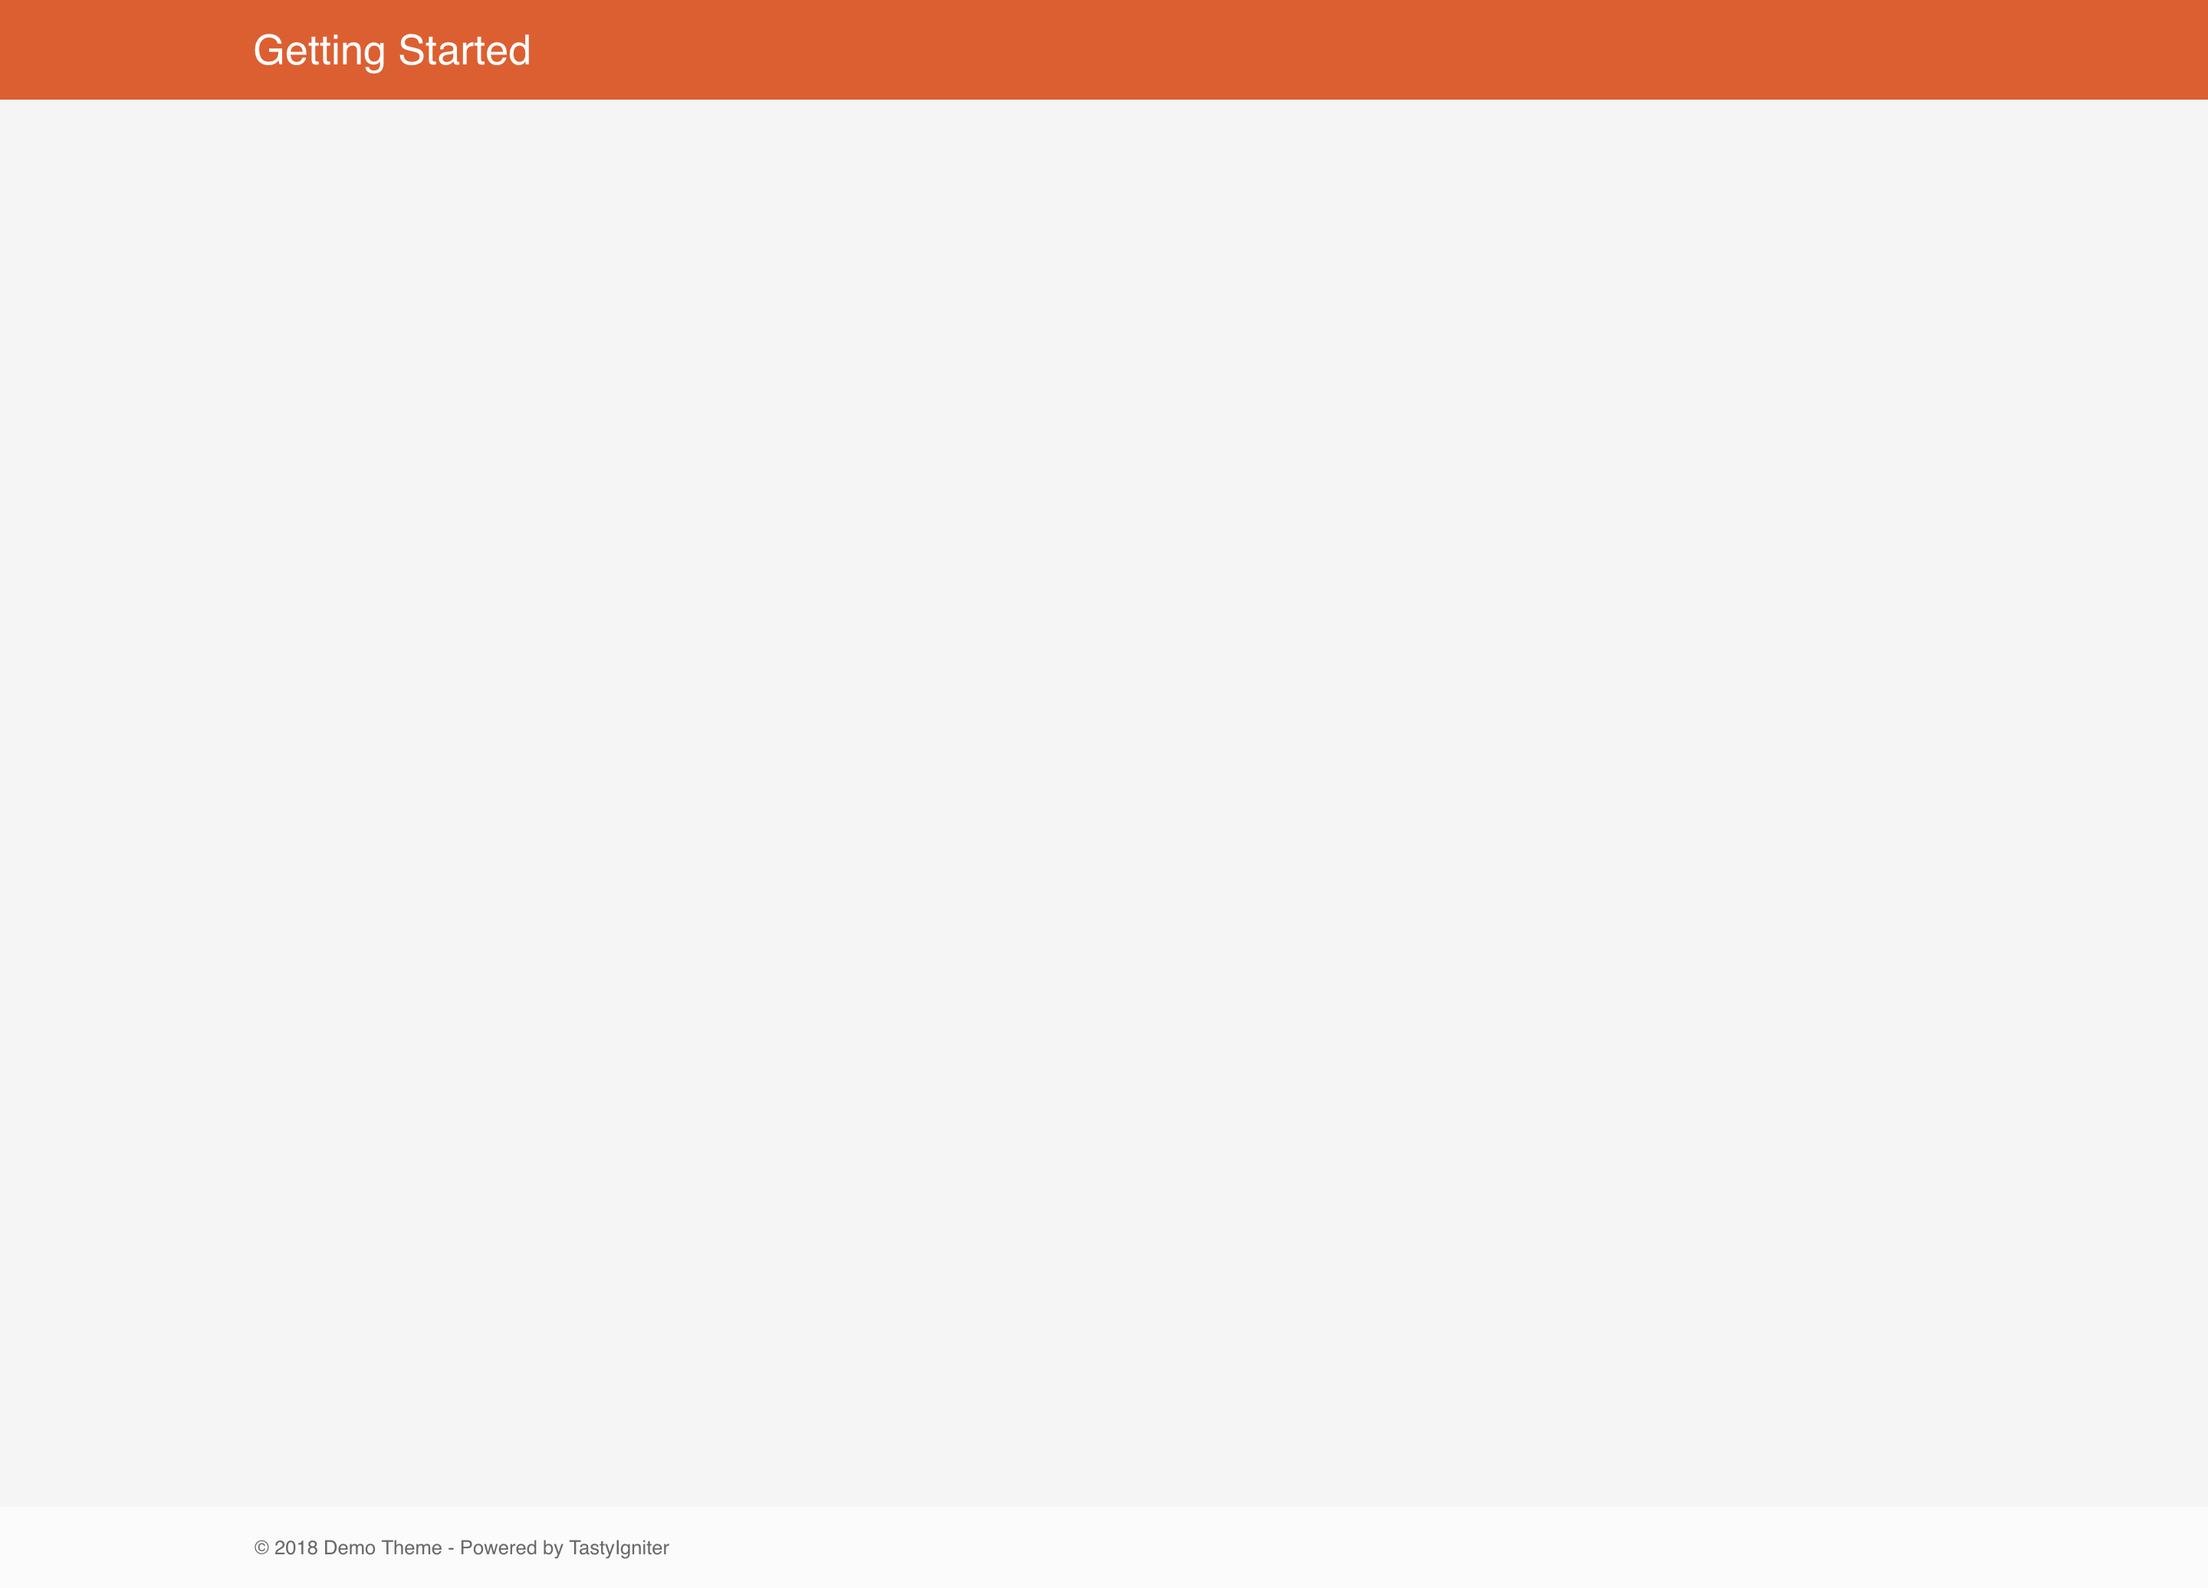
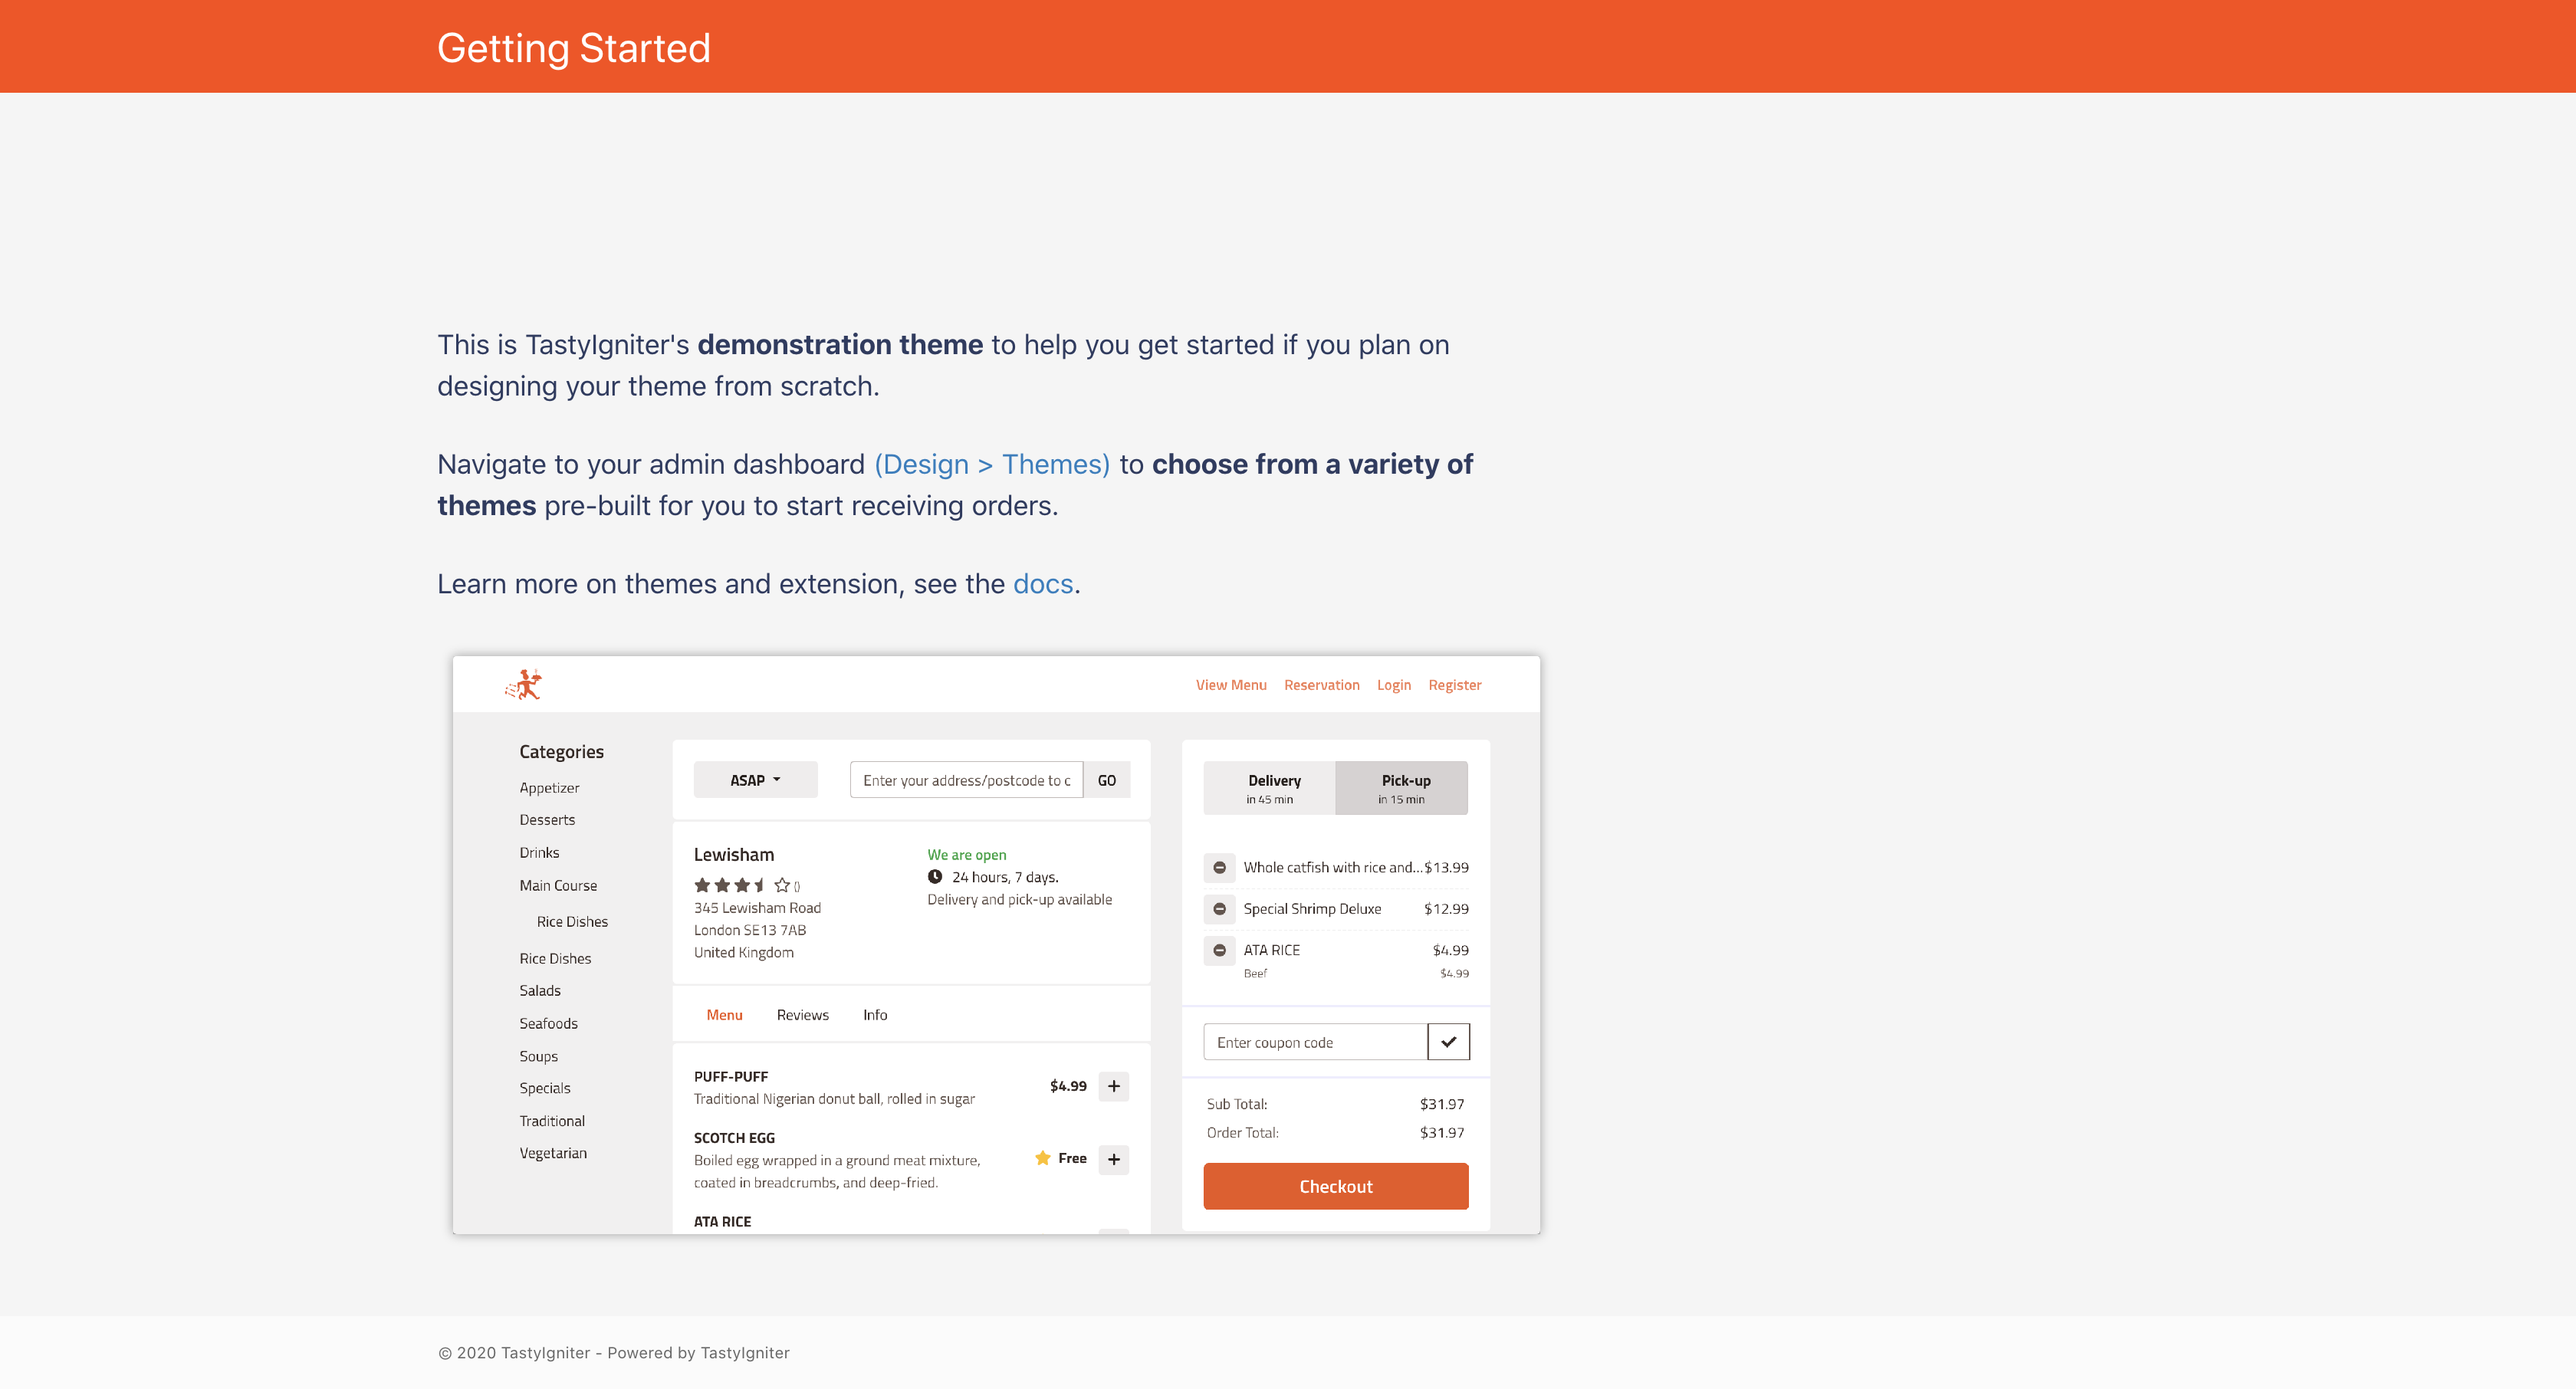
Add CTA to demo getting started page to help with next step

diff --git a/themes/demo/assets/css/demo.css b/themes/demo/assets/css/demo.css
@@ -14,9 +14,7 @@ body {
 	-moz-osx-font-smoothing: grayscale;
 }
 body {
-	font-family: 'Titillium Web', sans-serif;
 	background-color: #F5F5F5;
-	padding-bottom: 200px;
 }
 @media (max-width: 767px) {
 	body {
@@ -26,7 +24,7 @@ body {
 
 /*** Main Header ***/
 #main-header {
-	background-color: #ED561A;
+	background-color: #FF4900;
 }
 #main-header .logo {
 	padding: 10px 0;
@@ -44,9 +42,15 @@ body {
 	margin-bottom: 0;
 	margin-top: 0;
 }
+.content-area {
+	font-size: 18px;
+	padding-top: 90px;
+}
+.img-holder {
+	margin-left: -10px;
+}
 #page-footer {
 	background-color: #595959;
-	/*background-image: linear-gradient(to bottom, #EDEFF1, #EDEFF1);*/
 	position: absolute;
 	bottom: 0;
 	width: 100%;

diff --git a/themes/demo/_pages/home.php b/themes/demo/_pages/home.php
@@ -4,23 +4,20 @@ layout: default
 permalink: /
 ---
 
-<div class="container pt-4">
+<div class="container">
+    <div class="row">
+        <div class="col-sm-8">
+            <p class="mb-4">This is TastyIgniter's <b>demonstration theme</b> to help you get started if you plan on designing your theme from scratch.</p>
+            <p class="mb-4">
+                Navigate to your admin dashboard <a target="_blank" href="<?= admin_url('themes') ?>">(Design > Themes)</a>
+                to <b>choose from a variety of themes</b> pre-built for you to start receiving orders.
+            </p>
 
-    <p class="lead">This is TastyIgniter's demonstration theme to help you get started if you plan on designing your theme from scratch.</p>
-    <p class="lead">You may also choose from a variety of themes from the admin dashboard pre-built for you to start receiving orders.</p>
+            <p class="mb-4">Learn more on themes and extension, see the <a href="https://tastyigniter.com/docs">docs</a>.</p>
 
-    <h2>Overview <small>Basic page concepts</small></h2>
-
-    <h3>Layouts</h3>
-
-    <h3>Pages</h3>
-
-    <h3>Partials</h3>
-
-    <h3>Components</h3>
-
-    <h3>Assets</h3>
-
-    <h2>Extensions</h2>
-
+            <p class="mb-4 img-holder">
+                <img class="img-fluid rounded" src="https://tastyigniter.com/assets/ui/images/mockups/Menus.png" alt="TastyIgniter Frontend">
+            </p>
+        </div>
+    </div>
 </div>

diff --git a/themes/demo/_partials/head.php b/themes/demo/_partials/head.php
@@ -1,6 +1,6 @@
 <?= get_metas(); ?>
-<link href="<?= asset('app/admin/assets/images/favicon.ico'); ?>" rel="shortcut icon" type="image/ico">
+<link href="<?= theme_url('demo/assets/images/favicon.ico'); ?>" rel="shortcut icon" type="image/ico">
 <title><?= sprintf(lang('main::lang.site_title'), lang(get_title()), setting('site_name')); ?></title>
-<link href="<?= asset('app/system/assets/ui/flame.css') ?>" rel="stylesheet" type="text/css" id="flame-css">
+<link href="<?= asset('app/admin/assets/css/admin.css') ?>" rel="stylesheet" type="text/css" id="flame-css">
 <?= get_style_tags(); ?>
 <link href="<?= theme_url('demo/assets/css/demo.css') ?>" rel="stylesheet" type="text/css" id="demo-css">

diff --git a/themes/demo/_layouts/default.php b/themes/demo/_layouts/default.php
@@ -26,8 +26,6 @@ description: Default layout
     <footer id="page-footer">
         <?= partial('footer'); ?>
     </footer>
-    <script type="text/javascript" src="<?= asset('app/system/assets/ui/js/vendor/vendor.js'); ?>" id="vendor-js"></script>
-    <script type="text/javascript" src="<?= asset('app/system/assets/ui/js/flashmessage.js'); ?>" id="flashmessage-js"></script>
-    <script type="text/javascript" src="<?= asset('app/system/assets/ui/js/app.js'); ?>" id="app-js"></script>
+    <script type="text/javascript" src="<?= asset('app/admin/assets/js/admin.js'); ?>" id="app-js"></script>
     <?= get_script_tags(['ui', 'widget', 'component', 'custom', 'theme']); ?></body>
 </html>
